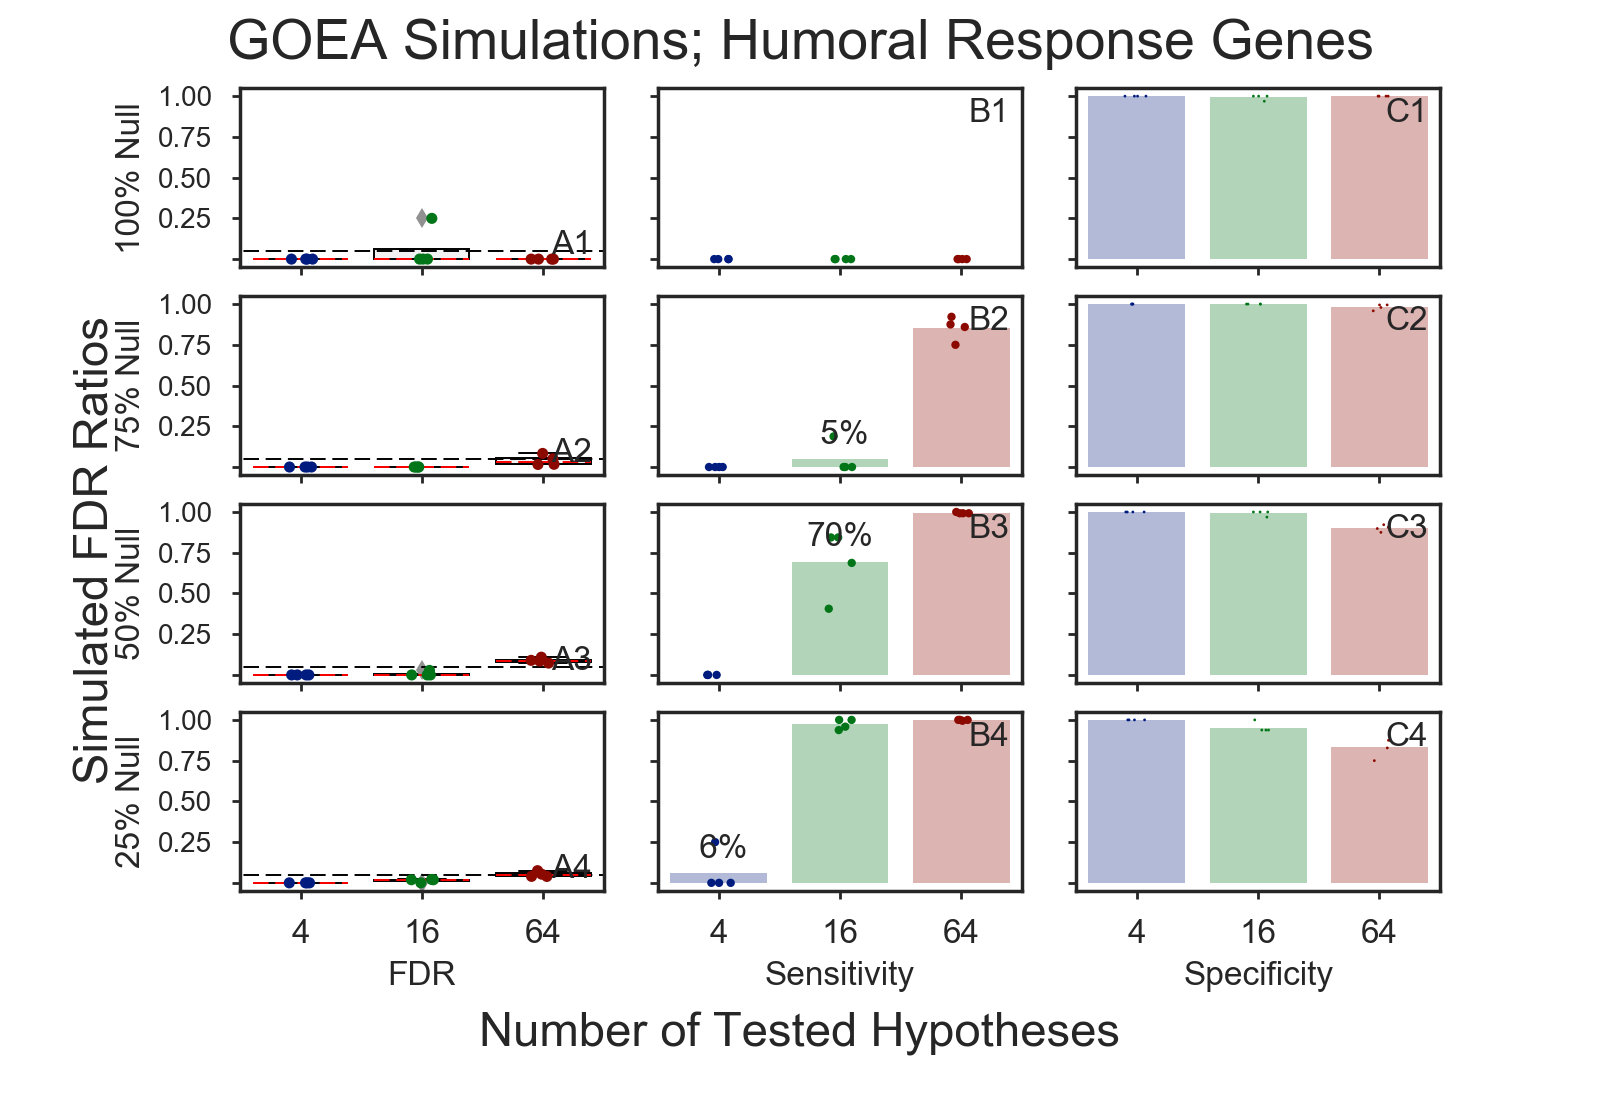
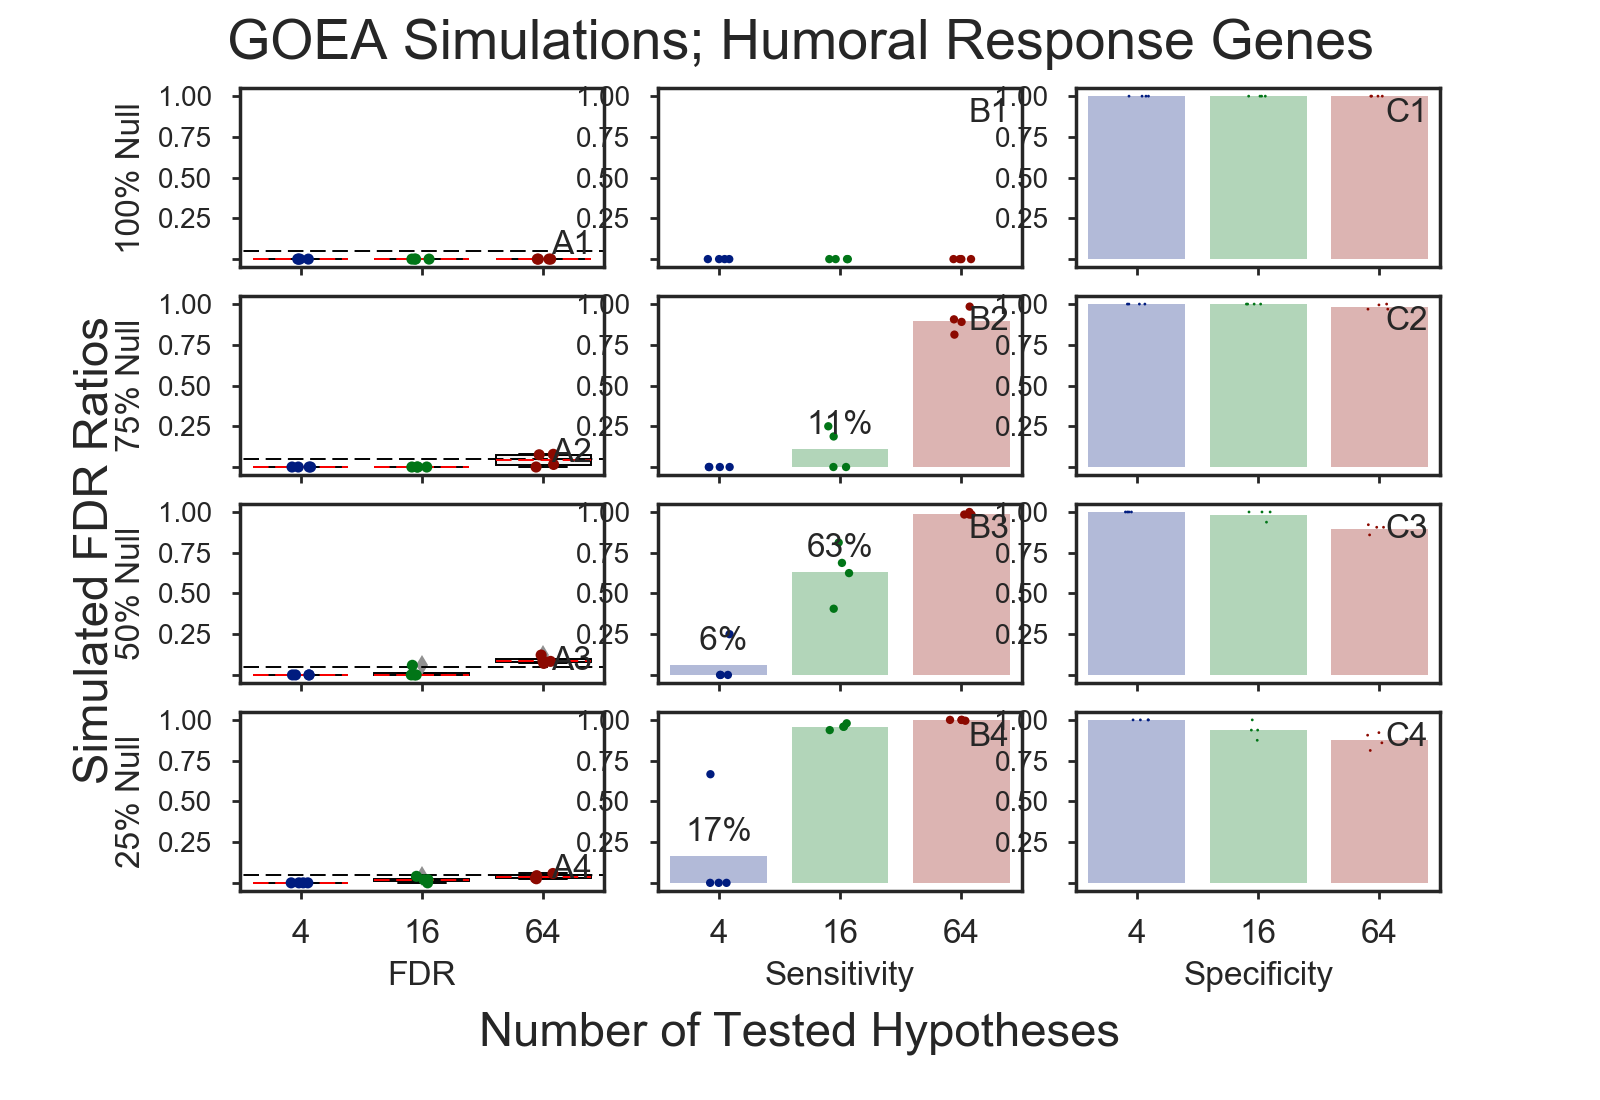
Moved creating axes objects from common to goea and hypotheses because needs differ for each.

diff --git a/src/pkggosim/goea/plot_results.py b/src/pkggosim/goea/plot_results.py
@@ -7,8 +7,8 @@ import sys
 import seaborn as sns
 import matplotlib.pyplot as plt
 import pandas as pd
-from pkggosim.common.plot_results import PlotInfo, get_tiled_axes, get_dftbl_boxplot
-from pkggosim.common.plot_results import tiled_xyticklabels_off, fill_axes
+from pkggosim.common.plot_results import PlotInfo, get_dftbl_boxplot
+from pkggosim.common.plot_results import fill_axes
 
 
 def _wrpng_boxplot_sigs_each(dfrm, alpha, **kws):
@@ -45,7 +45,7 @@ def plt_box_tiled(fout_img, key2exps, attrs, **args_kws):
     plt.close('all')
     sns.set(style="ticks")
     fig = plt.figure()
-    axes_2d = get_tiled_axes(fig, num_rows, num_cols)
+    axes_2d = _get_tiled_axes(fig, num_rows, num_cols)
     sorted_dat = sorted(key2exps.items(), key=lambda t: -1*t[0]) # sort by perc_null
     for row_idx in range(num_rows):
         perc_null, exps = sorted_dat[row_idx]
@@ -61,12 +61,28 @@ def plt_box_tiled(fout_img, key2exps, attrs, **args_kws):
             #plt.subplots_adjust(hspace=.17, wspace=.1, left=.15, bottom=.15, top=.87)
             #plt.subplots_adjust(hspace=.17, wspace=.1, left=.15, bottom=.15, top=.87)
             plt.subplots_adjust(hspace=.16, wspace=.15, left=.15, bottom=.19, top=.92)
-    tiled_xyticklabels_off(axes_2d, num_cols)
+    _tiled_xyticklabels_off(axes_2d, num_cols)
     set_tiled_txt(fig, pltobjs[0])
     plt.savefig(fout_img, dpi=args_kws.get('dpi', 200))
     sys.stdout.write("  WROTE: {IMG}\n".format(IMG=fout_img))
     if args_kws.get('show', False):
         plt.show()
+
+def _tiled_xyticklabels_off(axes, num_cols):
+    """Turn off xticklabels and yticklabels on the inside plot edges of the tiled boxplots."""
+    for xaxis in axes[:-1*num_cols]:
+        for label in xaxis.get_xticklabels():
+            label.set_visible(False)
+    # for idx, yaxis in enumerate(axes):
+    #     if idx%num_cols != 0:
+    #         for label in yaxis.get_yticklabels():
+    #             label.set_visible(False)
+
+def _get_tiled_axes(fig, n_rows, n_cols):
+    """Create empty axes to be filled and used in tiled boxplot image."""
+    ax1 = fig.add_subplot(n_rows, n_cols, 1)
+    rng = range(2, n_rows*n_cols+1)
+    return [ax1] + [fig.add_subplot(n_rows, n_cols, i, sharex=ax1, sharey=ax1) for i in rng]
 
 def set_tiled_txt(fig, pltobj):
     """Add text around edges of plot."""

diff --git a/src/pkggosim/hypotheses/plot_results.py b/src/pkggosim/hypotheses/plot_results.py
@@ -10,8 +10,8 @@ import numpy as np
 import seaborn as sns
 import matplotlib.pyplot as plt
 import pandas as pd
-from pkggosim.common.plot_results import PlotInfo, get_tiled_axes, get_dftbl_boxplot
-from pkggosim.common.plot_results import tiled_xyticklabels_off, get_num_rows_cols, fill_axes
+from pkggosim.common.plot_results import PlotInfo, get_dftbl_boxplot
+from pkggosim.common.plot_results import get_num_rows_cols, fill_axes
 
 
 def plot_results_all(objsim, params):
@@ -130,12 +130,12 @@ def plt_box_tiled(fout_img, key2exps, attrname, **args_kws):
     plt.close('all')
     sns.set(style="ticks")
     fig = plt.figure()
-    axes_2d = get_tiled_axes(fig, num_rows, num_cols)
+    axes_2d = _get_tiled_axes(fig, num_rows, num_cols)
     sorted_dat = sorted(key2exps.items(), key=lambda t: [-1*t[0][0], t[0][1]]) # perc_null, max_sig
     for idx, tile_items in enumerate(zip(axes_2d, sorted_dat)):
         plt.subplots_adjust(hspace=.1, wspace=.1, left=.18, bottom=.2, top=.92)
         _plt_tile(idx, num_rows, num_cols, tile_items, objplt)
-    tiled_xyticklabels_off(axes_2d, num_cols)
+    _tiled_xyticklabels_off(axes_2d, num_cols)
     xysz = kws['txtsz_xy']
     if attrname == "fdr_actual":
         _add_means_txt(fig, key2exps, objplt, .92-.2, .2+.1) # top-bottom, bottom+hspace
@@ -146,6 +146,22 @@ def plt_box_tiled(fout_img, key2exps, attrname, **args_kws):
     sys.stdout.write("  WROTE: {IMG}\n".format(IMG=fout_img))
     if kws.get('show', False):
         plt.show()
+
+def _tiled_xyticklabels_off(axes, num_cols):
+    """Turn off xticklabels and yticklabels on the inside plot edges of the tiled boxplots."""
+    for xaxis in axes[:-1*num_cols]:
+        for label in xaxis.get_xticklabels():
+            label.set_visible(False)
+    for idx, yaxis in enumerate(axes):
+        if idx%num_cols != 0:
+            for label in yaxis.get_yticklabels():
+                label.set_visible(False)
+
+def _get_tiled_axes(fig, n_rows, n_cols):
+    """Create empty axes to be filled and used in tiled boxplot image."""
+    ax1 = fig.add_subplot(n_rows, n_cols, 1)
+    rng = range(2, n_rows*n_cols+1)
+    return [ax1] + [fig.add_subplot(n_rows, n_cols, i, sharex=ax1, sharey=ax1) for i in rng]
 
 def _add_means_txt(fig, key2exps, objplt, y_m, y_b):
     """Add means per row to plot."""

diff --git a/src/pkggosim/common/plot_results.py b/src/pkggosim/common/plot_results.py
@@ -94,6 +94,8 @@ class PlotInfo(object):
             if curval is None:
                 curval = val_plt if val_plt is not None else val_dflt
             kws[pltattr] = curval
+        for key, val in kws.items():
+            self.kws[key] = val
 
 def fill_axes(axes, dfrm, alpha, **kws):
     """Fills axes axes with one set of boxplots of simulated FDRs."""
@@ -138,22 +140,6 @@ def _set_color_boxes(axes, color):
     """Set boxplot box line color."""
     for artist in axes.artists:
         artist.set_edgecolor(color)
-
-def get_tiled_axes(fig, n_rows, n_cols):
-    """Create empty axes to be filled and used in tiled boxplot image."""
-    ax1 = fig.add_subplot(n_rows, n_cols, 1)
-    rng = range(2, n_rows*n_cols+1)
-    return [ax1] + [fig.add_subplot(n_rows, n_cols, i, sharex=ax1, sharey=ax1) for i in rng]
-
-def tiled_xyticklabels_off(axes, num_cols):
-    """Turn off xticklabels and yticklabels on the inside plot edges of the tiled boxplots."""
-    for xaxis in axes[:-1*num_cols]:
-        for label in xaxis.get_xticklabels():
-            label.set_visible(False)
-    for idx, yaxis in enumerate(axes):
-        if idx%num_cols != 0:
-            for label in yaxis.get_yticklabels():
-                label.set_visible(False)
 
 def get_num_rows_cols(key2exps):
     """Return the number of rows and columns for a matrix of tiled boxplots."""

diff --git a/src/bin/plt_goea.py b/src/bin/plt_goea.py
@@ -53,9 +53,9 @@ def main():
         # ntobj._make([100, 1000, {'fdr_actual':0.95, 'sensitivity':0.60}, ylim, yticklabels]),
         # ntobj._make([100,   20, {'fdr_actual':0.95, 'sensitivity':0.60}, ylim, yticklabels]),
         # ntobj._make([ 50,   50, {'fdr_actual':2.00, 'sensitivity':0.70}, ylim, yticklabels]),
-        ntobj._make([ 50,   20, {'fdr_actual':3.00, 'sensitivity':2.00}, ylim, yticklabels]),  # 2:50
+        # ntobj._make([ 50,   20, {'fdr_actual':3.00, 'sensitivity':2.00}, ylim, yticklabels]), # 2:50
         # ntobj._make([ 20,   20, {'fdr_actual':2.00, 'sensitivity':2.00}, ylim, yticklabels]), # 1:25
-        # ntobj._make([  4,    4, {'fdr_actual':4.00, 'sensitivity':3.00}, ylim, yticklabels]), # 0:04
+        ntobj._make([  4,    4, {'fdr_actual':4.00, 'sensitivity':3.00}, ylim, yticklabels]), # 0:04
     ]
     for ntd in params:
         run(seed, ntd)

diff --git a/doc/md/README_prep1.md b/doc/md/README_prep1.md
@@ -1,8 +1,9 @@
 # [**Preparatory**: Hypotheses and multiple-test simulations]()
-These preparatory Benjamini/Hochberg FDR (False Discovery Rate)
-simulations are used to develop the simulation code and
-verify the simulation methodology.
-
+These preparatory Benjamini/Hochberg FDR (False Discovery Rate) simulations
+are used to establish proof of concept for the architecture and implementation
+of the simulation methodology used in both levels of simulations:
+  * **Benjamini/Hochberg FDR simulation only**    
+  * **Gene Ontology Enrichment Results (GOEA) simulations**    
 
 ## Introduction
 
